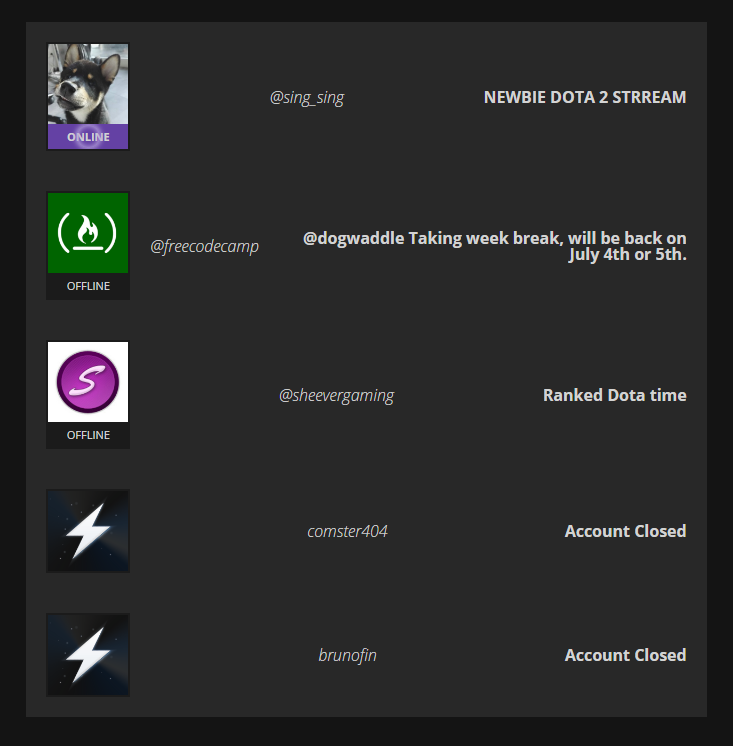
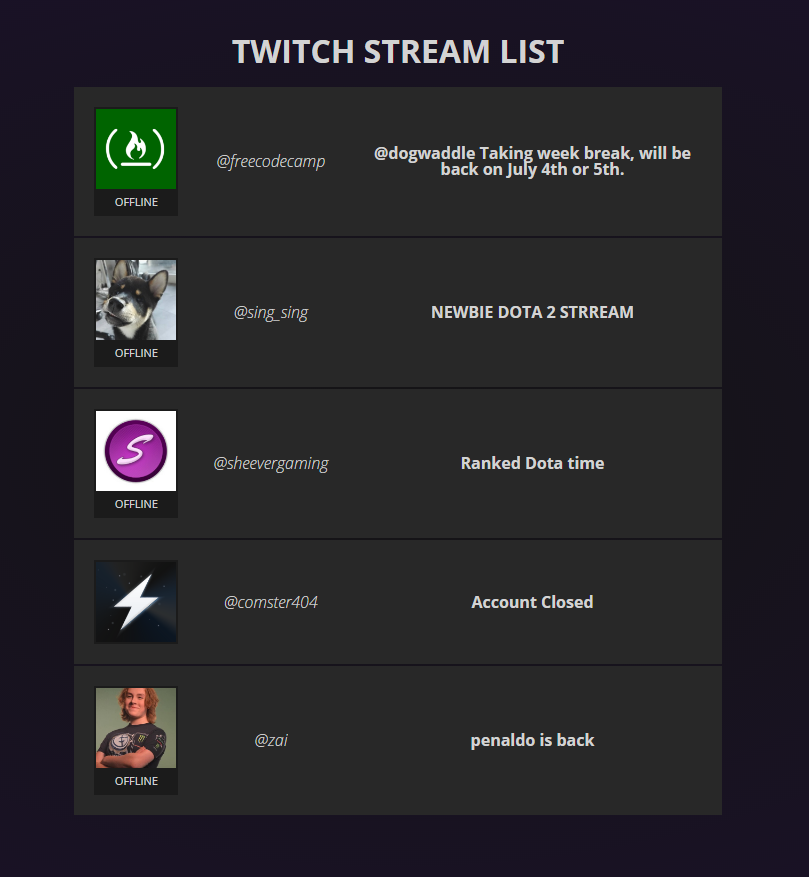
refactored script, scss tweaks

diff --git a/css/main.css b/css/main.css
@@ -1,3 +1,3 @@
-@-webkit-keyframes expand{0%{width:0;height:0;margin-left:0;margin-top:0;box-shadow:0 0 3px 1px #b19dd8,inset 0 0 3px 1px #b19dd8}100%{width:160px;height:160px;margin-left:-80px;margin-top:-80px;box-shadow:0 0 25px 3px #b19dd8,inset 0 0 25px 3px #b19dd8}}@keyframes expand{0%{width:0;height:0;margin-left:0;margin-top:0;box-shadow:0 0 3px 1px #b19dd8,inset 0 0 3px 1px #b19dd8}100%{width:160px;height:160px;margin-left:-80px;margin-top:-80px;box-shadow:0 0 25px 3px #b19dd8,inset 0 0 25px 3px #b19dd8}}*{box-sizing:border-box}body{background:#141414;font-family:"Open Sans",sans-serif;-moz-user-select:none;-webkit-user-select:none;-ms-user-select:none;user-select:none}a{text-decoration:none}#main-container{margin:3% auto;width:40%}.stream-container{background:#282828;width:100%;padding:20px;display:flex;flex-direction:row;align-items:center;justify-content:space-between}.stream-container:hover{background:#353535}.stream-container .stream-name,.stream-container .stream-title{align-self:center;color:#d3d3d3;margin-left:20px}.stream-container .stream-name{font-style:italic}.stream-container .stream-title{font-weight:600;text-align:right}.stream-logo-container{border:#1b1b1b solid 2px}.stream-logo-container .stream-logo{height:80px;width:80px}.stream-logo-container .stream-status-container{width:80px;padding:7px 0;position:relative;display:none;overflow:hidden;color:#d3d3d3;font-size:11px;text-align:center;text-transform:uppercase}.stream-logo-container .stream-status-container.online,.stream-logo-container .stream-status-container.offline{display:block}.stream-logo-container .stream-status-container.online{background:#6441a4;font-weight:600}.stream-logo-container .stream-status-container.online:after,.stream-logo-container .stream-status-container.online:before{content:'';display:block;position:absolute;width:0;height:0;border-radius:999px;top:50%;left:50%;z-index:1}.stream-logo-container .stream-status-container.online:after{-webkit-animation:expand 1500ms infinite 750ms ease-in;animation:expand 1500ms infinite 750ms ease-in}.stream-logo-container .stream-status-container.online:before{-webkit-animation:expand 1500ms infinite ease-in;animation:expand 1500ms infinite ease-in}.stream-logo-container .stream-status-container.offline{background:#1b1b1b}
+@-webkit-keyframes expand{0%{width:0;height:0;margin-left:0;margin-top:0;box-shadow:0 0 3px 1px #b19dd8,inset 0 0 3px 1px #b19dd8}100%{width:160px;height:160px;margin-left:-80px;margin-top:-80px;box-shadow:0 0 25px 3px #b19dd8,inset 0 0 25px 3px #b19dd8}}@keyframes expand{0%{width:0;height:0;margin-left:0;margin-top:0;box-shadow:0 0 3px 1px #b19dd8,inset 0 0 3px 1px #b19dd8}100%{width:160px;height:160px;margin-left:-80px;margin-top:-80px;box-shadow:0 0 25px 3px #b19dd8,inset 0 0 25px 3px #b19dd8}}[ng-cloak]{display:none}*{box-sizing:border-box}body{background:#141414;background:-moz-radial-gradient(center, ellipse cover, #141414 0%, #1b112b 100%);background:-webkit-radial-gradient(center, ellipse cover, #141414 0%, #1b112b 100%);background:radial-gradient(ellipse at center, #141414 0%, #1b112b 100%);font-family:"Open Sans",sans-serif;-moz-user-select:none;-webkit-user-select:none;-ms-user-select:none;user-select:none}a{text-decoration:none}#main-container{margin:3% auto;width:40%}#main-container .main-title{color:#d3d3d3;font-size:2em;font-weight:600;text-align:center;text-transform:uppercase;margin:0 0 20px 0}.stream-container{background:#282828;width:100%;padding:20px;margin:0 0 2px 0;display:flex;flex-direction:row;align-items:center;justify-content:space-between}.stream-container:hover{background:#353535}.stream-container .stream-name,.stream-container .stream-title{align-self:center;color:#d3d3d3;margin-left:20px;text-align:center}.stream-container .stream-name{width:30%;font-style:italic}.stream-container .stream-title{width:70%;font-weight:600}.stream-logo-container{border:#1b1b1b solid 2px}.stream-logo-container .stream-logo{height:80px;width:80px}.stream-logo-container .stream-status-container{width:80px;padding:7px 0;position:relative;display:none;overflow:hidden;color:#d3d3d3;font-size:11px;text-align:center;text-transform:uppercase}.stream-logo-container .stream-status-container.online,.stream-logo-container .stream-status-container.offline{display:block}.stream-logo-container .stream-status-container.online{background:#6441a4;font-weight:600}.stream-logo-container .stream-status-container.online:after,.stream-logo-container .stream-status-container.online:before{content:'';display:block;position:absolute;width:0;height:0;border-radius:999px;top:50%;left:50%;z-index:1}.stream-logo-container .stream-status-container.online:after{-webkit-animation:expand 1500ms infinite 750ms ease-in;animation:expand 1500ms infinite 750ms ease-in}.stream-logo-container .stream-status-container.online:before{-webkit-animation:expand 1500ms infinite ease-in;animation:expand 1500ms infinite ease-in}.stream-logo-container .stream-status-container.offline{background:#1b1b1b}
 
 /*# sourceMappingURL=main.css.map */

diff --git a/js/services.js b/js/services.js
@@ -1,0 +1,54 @@
+var app = angular.module("twitchList");
+
+var TwitchListFactory = function($http, $window){
+	var obj = {};
+
+	obj.requestStream = function(value){
+
+		var baseUrl = "https://api.twitch.tv/kraken/";
+		var playerUrl = "https://player.twitch.tv/?channel=";
+
+		var result = {};
+
+		$http.get(baseUrl + "channels/" + value).then(function success(response){
+
+			result.logo = response.data.logo !== null ? response.data.logo : "img/150x150-placeholder.png";
+			result.name = response.data.name;
+			result.title = response.data.status;
+			result.url = playerUrl + result.name;
+
+			$http.get(baseUrl + "streams/" + value).then(function success(response){
+				result.status = response.data.stream !== null ? "online" : "offline";
+			});
+
+		}, function error(){
+
+			result.logo = "img/150x150-placeholder.png";
+			result.title = "Account Closed";
+			result.name = value;
+
+		});
+
+		return result;
+	};
+
+	obj.splitAddressSearch = function(){
+
+		var search = $window.location.search;
+		var array = [];
+
+		if(search !== ""){
+			angular.forEach(search.substr(1, search.length).split(","), function(value){
+				array.push(value);
+			});
+		}
+
+		return array;
+	};
+
+	return obj;
+};
+
+TwitchListFactory.$inject = ["$http", "$window"];
+
+app.factory("TwitchListFactory", TwitchListFactory);

diff --git a/scss/main.scss b/scss/main.scss
@@ -1,4 +1,4 @@
-@import 'variables', 'mixins', 'colors';
+@import 'variables', 'mixins', 'colors', 'angular';
 
 *{
 	box-sizing: border-box;
@@ -6,6 +6,9 @@
 
 body {
 	background: $background-color;
+	background: -moz-radial-gradient(center, ellipse cover, $background-color 0%, $background-color-secondary 100%);
+	background: -webkit-radial-gradient(center, ellipse cover, $background-color 0%, $background-color-secondary 100%);
+	background: radial-gradient(ellipse at center, $background-color 0%, $background-color-secondary 100%);
 	font-family: $font-main;
 	@include user-select(none);
 }
@@ -17,12 +20,21 @@ a {
 #main-container {
 	margin: 3% auto;
 	width: 40%;
+	.main-title {
+		color: $text-color;
+		font-size: 2em;
+		font-weight: 600;
+		text-align: center;
+		text-transform: uppercase;
+		margin: 0 0 20px 0;
+	}
 }
 
 .stream-container {
 	background: $container-color;
 	width: 100%;
 	padding: 20px;
+	margin: 0 0 2px 0;
 	display: flex;
 	flex-direction: row;
 	align-items: center;
@@ -34,13 +46,15 @@ a {
 		align-self: center;
 		color: $text-color;
 		margin-left: 20px;
+		text-align: center;
 	}
 	.stream-name {
+		width: 30%;
 		font-style: italic;
 	}
 	.stream-title {
+		width: 70%;
 		font-weight: 600;
-		text-align: right;
 	}
 }
 

diff --git a/index.html b/index.html
@@ -7,21 +7,23 @@
 		<link rel="stylesheet" href="css/main.css">
 	</head>
 
-	<body ng-controller="mainController as mainctrl" ng-cloak>
-		<div id="main-container">
-			<a class="stream-container" href="{{result.url}}" ng-repeat="result in mainctrl.results">
+	<body ng-controller="MainController as mc">
+		<div id="main-container" ng-cloak>
+			<h1 class="main-title">Twitch Stream List</h1>
+			<a class="stream-container" href="{{result.url}}" target="_blank" ng-repeat="result in mc.results">
 				<div class="stream-logo-container">
 					<img src="{{result.logo}}" class="stream-logo">
 					<div class="stream-status-container {{result.status}}" ng-bind="result.status">
 					</div>
 				</div>
-				<span class="stream-name" ng-bind="result.name"></span>
-				<span class="stream-title" ng-bind="result.title"></span>
+				<p class="stream-name">@<span ng-bind="result.name"></span></p>
+				<p class="stream-title" ng-bind="result.title"></p>
 			</a>
 		</div>
 		<script src="js/angular.min.js"></script>
-		<script src="js/ender.min.js"></script>
-		<script src="js/app.js"></script>
+		<script src="js/app.min.js"></script>
+		<script src="js/controllers.min.js"></script>
+		<script src="js/services.min.js"></script>
 	</body>
 
 </html>

diff --git a/js/app.js b/js/app.js
@@ -1,38 +1,1 @@
-var module = angular.module("twitchList", []);
-module.controller("mainController", ["$http", function($http){
-
-	var baseUrl = "https://api.twitch.tv/kraken/";
-	var playerUrl = "https://player.twitch.tv/?channel=";
-	var channels = ["freecodecamp", "sing_sing", "sheevergaming", "brunofin", "comster404"];
-
-	var self = this;
-	self.results = [];
-
-	angular.forEach(channels, function(value){
-
-		var result = {};
-		$http.get(baseUrl + "channels/" + value).then(function(response){
-
-			result.logo = response.data.logo;
-			result.name = "@" + response.data.name;
-			result.title = response.data.status;
-			result.url = playerUrl + result.name;
-
-			$http.get(baseUrl + "streams/" + value).then(function(response){
-				result.status = response.data.stream !== null ? "online" : "offline";
-			});
-
-			self.results.push(result);
-
-		}, function(){
-
-			self.results.push({
-				logo : "img/150x150-placeholder.png",
-				title : "Account Closed",
-				name : value,
-			});
-
-		});
-
-	});
-}]);
+angular.module("twitchList", []);

diff --git a/js/services.min.js b/js/services.min.js
@@ -1,0 +1,1 @@
+var app=angular.module("twitchList"),TwitchListFactory=function(t,a){var n={};return n.requestStream=function(a){var n="https://api.twitch.tv/kraken/",r="https://player.twitch.tv/?channel=",e={};return t.get(n+"channels/"+a).then(function(i){e.logo=null!==i.data.logo?i.data.logo:"img/150x150-placeholder.png",e.name=i.data.name,e.title=i.data.status,e.url=r+e.name,t.get(n+"streams/"+a).then(function(t){e.status=null!==t.data.stream?"online":"offline"})},function(){e.logo="img/150x150-placeholder.png",e.title="Account Closed",e.name=a}),e},n.splitAddressSearch=function(){var t=a.location.search,n=[];return""!==t&&angular.forEach(t.substr(1,t.length).split(","),function(t){n.push(t)}),n},n};TwitchListFactory.$inject=["$http","$window"],app.factory("TwitchListFactory",TwitchListFactory);

diff --git a/js/controllers.js b/js/controllers.js
@@ -1,0 +1,16 @@
+var app = angular.module("twitchList");
+
+var MainController = function(TwitchListFactory){
+
+	var channels = ["freecodecamp", "sing_sing", "sheevergaming", "comster404", "zai"]; //.concat(TwitchListFactory.splitAddressSearch());
+
+	var results = this.results = [];
+
+	angular.forEach(channels, function(value){
+		results.push(TwitchListFactory.requestStream(value));
+	});
+};
+
+MainController.$inject = ["TwitchListFactory"];
+
+app.controller("MainController", MainController);

diff --git a/scss/_colors.scss b/scss/_colors.scss
@@ -3,5 +3,6 @@ $container-color: #282828;
 $container-color-light: lighten($container-color, 5%);
 $container-color-shadow: darken($container-color, 5%);
 $status-color-online: #6441a4;
+$background-color-secondary: darken($status-color-online, 33%);
 $status-color-offline: $container-color-shadow;
 $text-color: #D3D3D3;

diff --git a/js/controllers.min.js b/js/controllers.min.js
@@ -1,0 +1,1 @@
+var app=angular.module("twitchList"),MainController=function(t){var a=["freecodecamp","sing_sing","sheevergaming","comster404","zai"],n=this.results=[];angular.forEach(a,function(a){n.push(t.requestStream(a))})};MainController.$inject=["TwitchListFactory"],app.controller("MainController",MainController);

diff --git a/js/app.min.js b/js/app.min.js
@@ -1,0 +1,1 @@
+angular.module("twitchList",[]);

diff --git a/scss/_angular.scss b/scss/_angular.scss
@@ -1,0 +1,3 @@
+[ng-cloak]{
+	display: none;
+}

diff --git a/README.md b/README.md
@@ -1,7 +1,7 @@
 #jsTwitchList
 Twitch app for FreeCodeCamp zipline: https://www.freecodecamp.com/challenges/use-the-twitchtv-json-api
 
-#Preview as of 01-Jul-16
+#Preview as of 02-Jul-16
 ![](preview.png)
 
 Extensions used:
